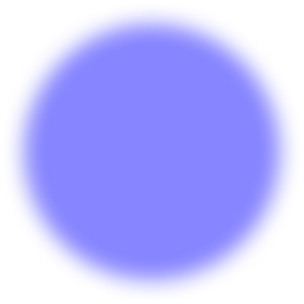
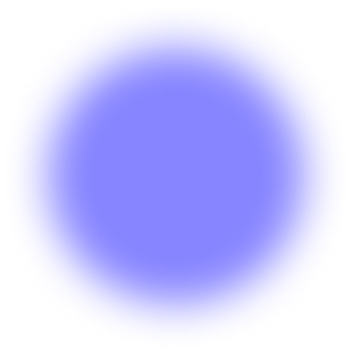
bla

diff --git a/src/views/Roadmap.vue b/src/views/Roadmap.vue
@@ -410,8 +410,8 @@ export default {
         colors[i * 3 + 1] = 1.0;
         colors[i * 3 + 2] = 1.0;
 
-        alphas[i] = 0.05 + Math.random() * 0.05;
-        sizes[i] = Math.random() * Math.random() * 100.0;
+        alphas[i] = 0.05 + Math.random() * 0.01;
+        sizes[i] = (Math.random() * Math.random() * 100.0) * 2;
       }
 
       this.partGeo = new THREE.BufferGeometry();
@@ -624,12 +624,10 @@ export default {
       this.mouse.x = ( event.clientX / window.innerWidth ) * 2 - 1;
       this.mouse.y = - ( event.clientY / window.innerHeight ) * 2 + 1;
       this.raycaster.setFromCamera(this.mouse, this.camera);
-      // const intersects = this.raycaster.intersectObject(this.meshParticles.children);
-      // console.log(intersects)
       const intersects = this.raycaster.intersectObjects(this.roadmapMesh.children, true);
+      
       if (intersects.length > 0) {
         intersects[0].object.geometry.attributes.alpha.array[0] = 0;
-        console.log(intersects[0].object.geometry.attributes.alpha.array[0]);
       }
 
       var pointSizes = this.particles.geometry.attributes.size;
